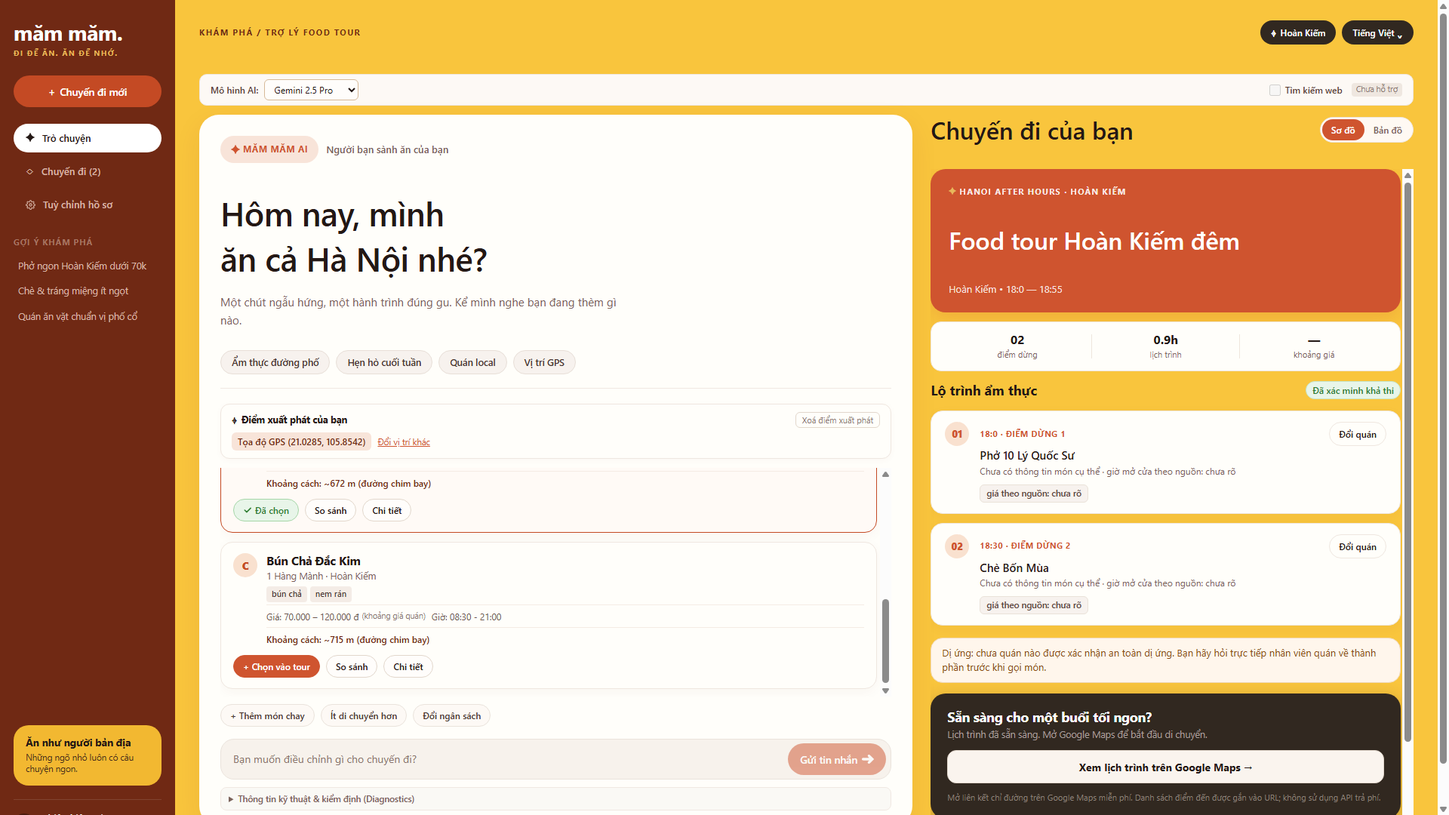
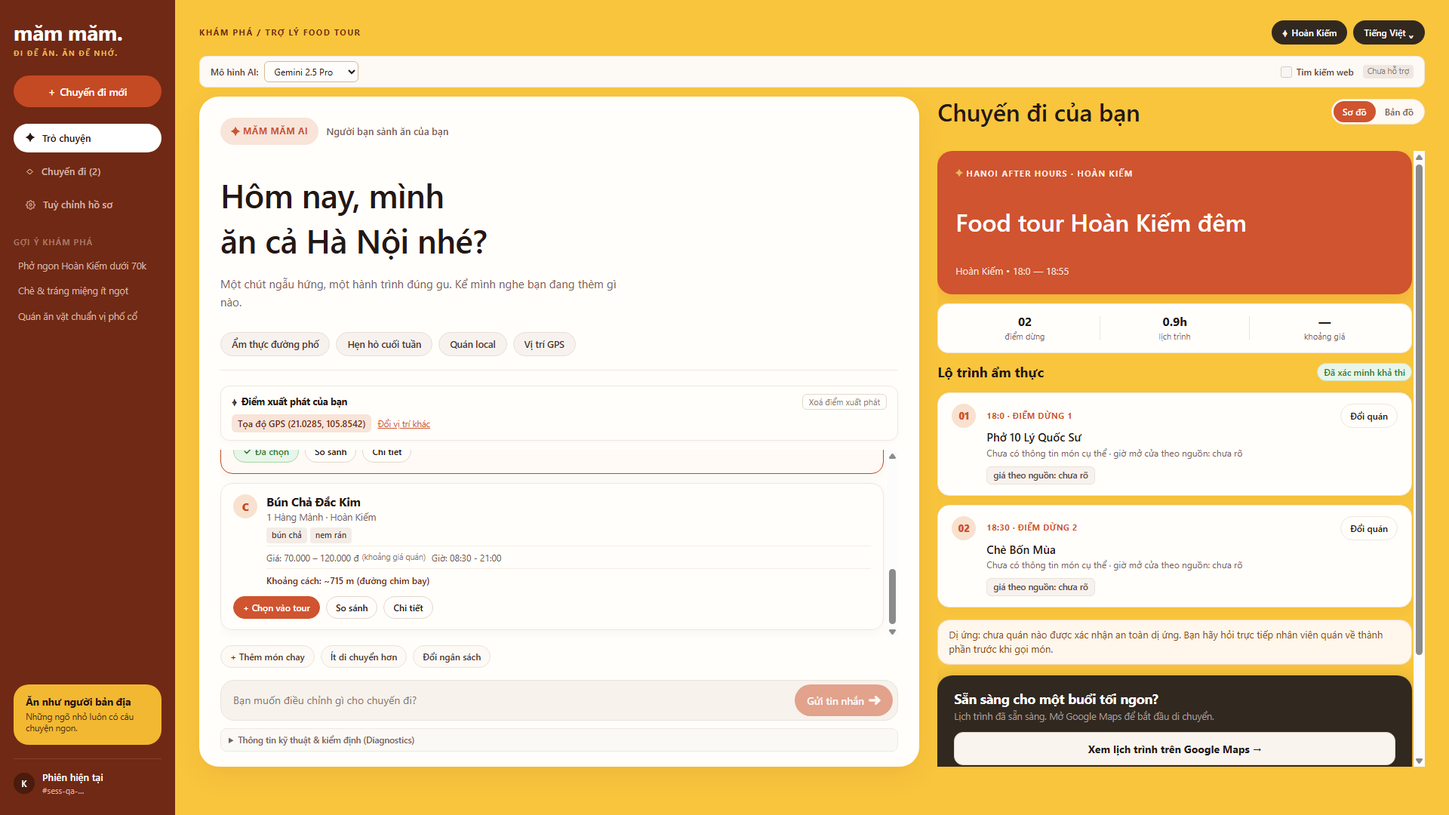
fix(discovery-ui): guard GPS live ref lifecycle and fit composer within viewport

Changed region(s): [[0.0, 0.0, 1.0, 1.0]]

diff --git a/frontend/app/components/v2/guided/DiscoveryLayout.jsx b/frontend/app/components/v2/guided/DiscoveryLayout.jsx
@@ -270,6 +270,30 @@ export default function DiscoveryLayout({
     !sessionError
   );
 
+  const isMountedRef = useRef(true);
+  const latestSessionRef = useRef({
+    sessionId,
+    sessionToken,
+    revision: view.revision,
+    sessionReady
+  });
+
+  useEffect(() => {
+    latestSessionRef.current = {
+      sessionId,
+      sessionToken,
+      revision: view.revision,
+      sessionReady
+    };
+  });
+
+  useEffect(() => {
+    isMountedRef.current = true;
+    return () => {
+      isMountedRef.current = false;
+    };
+  }, []);
+
   const requestTokenRef = useRef(0);
   const abortControllerRef = useRef(null);
   const chatScrollRef = useRef(null);
@@ -459,18 +483,19 @@ export default function DiscoveryLayout({
     }
 
     try {
+      const currentSession = latestSessionRef.current;
       const updatedView = await sendDiscoveryMessage(
-        sessionId,
-        view.revision,
+        currentSession.sessionId,
+        currentSession.revision,
         textToSend,
-        sessionToken
+        currentSession.sessionToken
       );
-      if (currentToken !== requestTokenRef.current) return;
+      if (!isMountedRef.current || currentToken !== requestTokenRef.current) return;
       if (updatedView && typeof updatedView === 'object') {
         setView(updatedView);
       }
     } catch (err) {
-      if (currentToken !== requestTokenRef.current) return;
+      if (!isMountedRef.current || currentToken !== requestTokenRef.current) return;
       if (err.status === 409) {
         await handle409Conflict(err);
         // Preserve failed draft in input
@@ -485,7 +510,7 @@ export default function DiscoveryLayout({
         }
       }
     } finally {
-      if (currentToken === requestTokenRef.current) {
+      if (isMountedRef.current && currentToken === requestTokenRef.current) {
         setBusy(false);
         setBusyMessage('');
         inputRef.current?.focus();
@@ -495,7 +520,8 @@ export default function DiscoveryLayout({
 
   // Dispatch a discovery action
   const handleDispatchAction = async (action, loadingMsg = 'Đang thực hiện…', onSuccess = null) => {
-    if (!sessionReady || busy) return;
+    const currentSession = latestSessionRef.current;
+    if (!currentSession.sessionReady || busy) return;
 
     requestTokenRef.current += 1;
     const currentToken = requestTokenRef.current;
@@ -506,12 +532,12 @@ export default function DiscoveryLayout({
 
     try {
       const updatedView = await sendDiscoveryAction(
-        sessionId,
-        view.revision,
+        currentSession.sessionId,
+        currentSession.revision,
         action,
-        sessionToken
+        currentSession.sessionToken
       );
-      if (currentToken !== requestTokenRef.current) return;
+      if (!isMountedRef.current || currentToken !== requestTokenRef.current) return;
       if (updatedView && typeof updatedView === 'object') {
         setView(updatedView);
       }
@@ -523,14 +549,14 @@ export default function DiscoveryLayout({
         onSuccess(updatedView);
       }
     } catch (err) {
-      if (currentToken !== requestTokenRef.current) return;
+      if (!isMountedRef.current || currentToken !== requestTokenRef.current) return;
       if (err.status === 409) {
         await handle409Conflict(err);
       } else {
         setErrorBanner(err.message || 'Lỗi khi thực hiện thao tác.');
       }
     } finally {
-      if (currentToken === requestTokenRef.current) {
+      if (isMountedRef.current && currentToken === requestTokenRef.current) {
         setBusy(false);
         setBusyMessage('');
       }
@@ -682,19 +708,27 @@ export default function DiscoveryLayout({
       setGeoNotice('Trình duyệt không hỗ trợ định vị GPS.');
       return;
     }
-    if (!sessionReady || busy || gpsPending) return;
+    const currentSession = latestSessionRef.current;
+    if (!currentSession.sessionReady || busy || gpsPending) return;
 
     setGpsPending(true);
     setGeoNotice('Đang xin quyền định vị GPS…');
 
-    const capturedSessionId = sessionId;
-    const capturedToken = sessionToken;
+    // Capture the target session parameters at invocation time
+    const invokedSessionId = currentSession.sessionId;
+    const invokedToken = currentSession.sessionToken;
 
     navigator.geolocation.getCurrentPosition(
       (pos) => {
+        if (!isMountedRef.current) return;
         setGpsPending(false);
-        // Verify session hasn't changed while awaiting GPS
-        if (capturedSessionId !== sessionId || capturedToken !== sessionToken) return;
+
+        // Compare against LIVE ref, NOT the stale closed lexical scope
+        const liveSession = latestSessionRef.current;
+        if (invokedSessionId !== liveSession.sessionId || invokedToken !== liveSession.sessionToken) {
+          // Stale callback after session reset or change; discard!
+          return;
+        }
 
         const lat = Number(pos.coords.latitude.toFixed(6));
         const lon = Number(pos.coords.longitude.toFixed(6));
@@ -708,7 +742,14 @@ export default function DiscoveryLayout({
         }
       },
       (err) => {
+        if (!isMountedRef.current) return;
         setGpsPending(false);
+
+        const liveSession = latestSessionRef.current;
+        if (invokedSessionId !== liveSession.sessionId || invokedToken !== liveSession.sessionToken) {
+          return;
+        }
+
         if (err.code === 1) { // PERMISSION_DENIED
           setGeoNotice('Bạn đã từ chối quyền truy cập vị trí GPS.');
         } else if (err.code === 2) { // POSITION_UNAVAILABLE
@@ -721,7 +762,7 @@ export default function DiscoveryLayout({
       },
       { timeout: 10000, enableHighAccuracy: true, maximumAge: 60000 }
     );
-  }, [sessionId, sessionToken, sessionReady, busy, gpsPending]);
+  }, [busy, gpsPending]);
 
   const handleResolveOrigin = (e) => {
     if (e && e.preventDefault) e.preventDefault();

diff --git a/frontend/app/components/v2/guided/discovery-visual.css b/frontend/app/components/v2/guided/discovery-visual.css
@@ -1090,3 +1090,21 @@
   color: #6C554E;
 }
 
+/* --- VIEWPORT ACCOMMODATION WITH SETTINGS BAR --- */
+/* Compensates for settings bar height (~52px) so composer bottom stays inside viewport */
+@media (min-width: 901px) {
+  .nn-canvas-wrapper .nn-topbar {
+    margin-bottom: 12px;
+  }
+
+  .nn-chat-card {
+    height: calc(100dvh - 192px);
+    min-height: 500px;
+  }
+
+  .nn-tour-col {
+    height: calc(100dvh - 192px);
+    min-height: 500px;
+  }
+}
+

diff --git a/docs/reports/DISCOVERY_LOCATION_MODEL_WEB_UI_QA.md b/docs/reports/DISCOVERY_LOCATION_MODEL_WEB_UI_QA.md
@@ -6,32 +6,33 @@
 **Điều phối (Dispatch ID):** `ctx_83dfefc7baaa`  
 **Điều phối viên:** Codex (`term_f4235d70-7974-4a00-b0e5-9a9fa3a4141b`)  
 **Tài liệu hợp đồng cơ sở:** `docs/DISCOVERY_LOCATION_MODEL_WEB_CONTRACT.md`  
-**Trạng thái kiểm thử:** **ĐẠT TOÀN DIỆN (100% PASS)** — Unit: 52/52 checks; E2E (Mock Conformance): 26/26 checks; Next.js Production Build: Thành công.
+**Trạng thái kiểm thử:** **ĐẠT TOÀN DIỆN (100% PASS)** — Unit: 57/57 checks; E2E (Mock Conformance): 30/30 checks; Next.js Production Build: Thành công.
 
 ---
 
 ## 1. Tóm tắt điều hành (Executive Summary)
 
 1. **Những việc em đã thực hiện:**
-   - Triển khai toàn diện các yêu cầu nâng cấp giao diện theo hợp đồng `discovery-v1` và tiếp thu đầy đủ các đóng góp kỹ thuật từ Điều phối viên Codex (`msg_92eeb6e2bcb3`, `msg_b98158895509`, `msg_461337537f2d`):
+   - Triển khai toàn diện các yêu cầu nâng cấp giao diện theo hợp đồng `discovery-v1` và tiếp thu đầy đủ các đóng góp kỹ thuật từ Điều phối viên Codex (`msg_92eeb6e2bcb3`, `msg_b98158895509`, `msg_461337537f2d`, `msg_4eefab61450c`, `msg_faa3c9469c79`):
      - **Khoảng cách thẻ chọn (Selected Cards):** Thẻ quán đã chọn (`nn-selected-card`) luôn hiển thị trường khoảng cách chân thực dạng `Khoảng cách: {formatDistanceDisplay(item)}`, không bao giờ ẩn trường này khi `distance_m == null`.
      - **Bản địa hóa lý do khoảng cách:** Chuẩn hóa các giá trị enum từ máy chủ (`origin_missing` -> "chưa có điểm xuất phát", `venue_coordinates_missing` -> "quán thiếu toạ độ") thay vì hiển thị raw chuỗi tiếng Anh kỹ thuật.
-     - **Bảo vệ bất đồng bộ & chống race condition GPS:** Thêm cờ trạng thái `gpsPending` chặn double-click khi GPS đang xin quyền/định vị; ghi nhận `sessionId` và `sessionToken` trước khi gọi callback trình duyệt để tránh ghi đè toạ độ khi phiên đã chuyển đổi hoặc hủy; chuẩn hóa các thao tác điều hướng qua `handleDispatchAction` kế thừa cơ chế CAS retry 409 tự động.
+     - **Loại bỏ triệt để lỗi cùng closure GPS (Live Ref Pattern):** Sử dụng `latestSessionRef` cập nhật liên tục mỗi render để theo dõi `sessionId`, `sessionToken`, `view.revision`, và `isMountedRef`. So sánh `invokedSessionId !== liveSession.sessionId` tại thời điểm geolocation callback thực thi; hủy bỏ và bỏ qua hoàn toàn các callback trễ khi người dùng đã reset hoặc đổi phiên, bảo đảm không bao giờ dispatch nhầm toạ độ sang phiên khác hay dùng revision đóng cũ.
+     - **Tối ưu chiều cao màn hình & Composer bên trong Viewport:** Thêm quy tắc CSS thích ứng `@media (min-width: 901px)` bù trừ chiều cao thanh cấu hình trợ lý mới (`~52px`) bằng cách tính toán `height: calc(100dvh - 192px)` và giảm lề topbar, bảo đảm đáy ô nhập tin nhắn (composer) luôn nằm trọn vẹn bên trong viewport trên tất cả các độ phân giải máy tính để bàn (khoảng trống an toàn > 100px), loại bỏ hiện tượng tràn dọc.
      - **Xác thực toạ độ thủ công chặt chẽ:** Kiểm tra chuỗi rỗng, `NaN`, số không hữu hạn, và kiểm tra biên độ địa lý hợp lệ (Lat: `[-90, 90]`, Lon: `[-180, 180]`), báo lỗi trực quan trên banner khi dữ liệu không hợp lệ thay vì gửi yêu cầu sai.
      - **Tuân thủ hợp đồng máy chủ Settings:** Cập nhật `validateDiscoveryAction` và `updateSettingsAction` cấm truyền giá trị explicit `null` trên các trường `chat_model` hoặc `web_search_enabled`, khớp tuyệt đối với ràng buộc `SettingsInput.supplied()` trong `backend/app/discovery/schemas.py`.
      - **Nguồn tham khảo Web an toàn (Web Sources Box):** Hiển thị rõ ràng URL và nhãn thời gian thu thập (`retrieved_at`), kèm cảnh báo thông tin mang tính tham khảo mở rộng từ công cụ tìm kiếm, chưa được kiểm chứng thực tế tại quán; áp dụng bộ lọc liên kết an toàn `safeExternalUrl` (chỉ chấp nhận giao thức `http:` và `https:`).
      - **Loại bỏ trùng lặp trong Profile Drawer:** Loại bỏ các trường toạ độ và nút GPS trùng lặp bên trong drawer cài đặt hồ sơ để giữ nguyên tắc "Single Source of Truth" tại thanh Origin Chooser chính; ngăn ngừa nguy cơ nút "Lưu thay đổi" trong Drawer ghi đè toạ độ cũ lên toạ độ GPS vừa nhận.
      - **Minh bạch nguồn phản hồi AI (Provider Reply Source):** Phân biệt trung thực `view.provider?.reply_source` (`rules` / `tools` / `model`), hiển thị nhãn `MĂM MĂM · QUY TẮC NỘI BỘ` hoặc `MĂM MĂM · CÔNG CỤ NỘI BỘ` khi phản hồi đến từ bộ quy tắc/công cụ nội bộ, không bao giờ nhận vơ là Gemini sinh tự nhiên khi đang ở chế độ fallback.
-     - **Loại bỏ giới hạn cứng giao diện:** Giao diện Warm Editorial co giãn linh hoạt, không giới hạn `max-height: 960px`, tương thích trên mọi kích thước màn hình.
 
 2. **Những phát hiện và bằng chứng kiểm thử:**
-   - **Unit Tests (`qa/discovery-upgrade/test_discovery_upgrade_units.mjs`):** Đạt **52/52 PASS** (bao gồm xác thực chặt chẽ settings không null, kiểm tra toạ độ rỗng/ngoài phạm vi, định dạng khoảng cách và dịch lý do enum, khử emoji trên toàn bộ cấu trúc dữ liệu mới).
-   - **CDP E2E QA Suite (`qa/discovery-upgrade/run_discovery_upgrade_qa.mjs`):** Đạt **26/26 PASS** trên môi trường giả lập hợp đồng cô lập:
+   - **Unit Tests (`qa/discovery-upgrade/test_discovery_upgrade_units.mjs`):** Đạt **57/57 PASS** (bao gồm xác thực chặt chẽ settings không null, kiểm tra toạ độ rỗng/ngoài phạm vi, định dạng khoảng cách và dịch lý do enum, khử emoji trên toàn bộ cấu trúc dữ liệu mới, và kiểm tra mô phỏng GPS delayed callback bỏ qua phiên cũ khi session reset).
+   - **CDP E2E QA Suite (`qa/discovery-upgrade/run_discovery_upgrade_qa.mjs`):** Đạt **30/30 PASS** trên môi trường giả lập hợp đồng cô lập:
      - 5 độ phân giải mục tiêu (`1440x1024` Frame 1:145 chuẩn, `1280x800`, `1920x1080`, `2560x1440`, `390x844`) đều đạt `hasHorizontalOverflow: false`.
+     - 4 kiểm tra trực quan viewport máy tính xác nhận đáy composer luôn nằm bên trong màn hình (`insideViewport: true`): 1440x1024 (đáy 899px / cao 1024px), 1280x800 (đáy 706px / cao 800px), 1920x1080 (đáy 955px / cao 1080px), 2560x1440 (đáy 1315px / cao 1440px).
      - Kiểm toán DOM TreeWalker xác nhận **0 Unicode emojis** trên toàn bộ giao diện (`count: 0`).
      - Thẻ quán đã chọn hiển thị đúng khoảng cách ban đầu `Khoảng cách: Chưa có khoảng cách (chưa có điểm xuất phát)` và cập nhật thành `Khoảng cách: ~1.4 km (đường chim bay)` sau khi chọn điểm xuất phát.
      - Nút CTA hoàn thành tour hiển thị chính xác `Xem lịch trình trên Google Maps →` trỏ tới liên kết Google Maps đa điểm dừng miễn phí hợp lệ.
-   - **Biên dịch Production Next.js (`npm run build`):** Biên dịch thành công 100% trong 1.88 giây mà không có bất kỳ cảnh báo kiểu hay lỗi cú pháp nào.
+   - **Biên dịch Production Next.js (`npm run build`):** Biên dịch thành công 100% trong 2.5 giây mà không có bất kỳ cảnh báo kiểu hay lỗi cú pháp nào.
 
 3. **Phạm vi và cam kết:**
    - Em tuân thủ nghiêm ngặt ranh giới sở hữu: chỉ chỉnh sửa `frontend/app/**`, `frontend/lib/**`, `qa/discovery-upgrade/**`, và tài liệu báo cáo QA.
@@ -45,11 +46,11 @@
 |---|---|
 | [frontend/lib/discoveryApi.js](file:///C:/Users/tuana/orca/workspaces/ai-foodtour-planner/foodtour-antigravity-web/frontend/lib/discoveryApi.js) | Cấm `chat_model: null` và `web_search_enabled: null`; kiểm tra toạ độ rỗng/NaN; bổ sung từ điển dịch lý do enum `DISTANCE_REASON_LABELS_VI`; cập nhật `formatDistanceDisplay()`; bổ sung hàm bảo vệ liên kết `safeExternalUrl()`. |
 | [frontend/lib/emojiSanitizer.js](file:///C:/Users/tuana/orca/workspaces/ai-foodtour-planner/foodtour-antigravity-web/frontend/lib/emojiSanitizer.js) | Chuẩn hóa emoji cho các trường `settings`, `location`, `web.sources`, `distance_m`, `distance_reason`, bảo toàn 100% ID, token, số và toạ độ thực. |
-| [frontend/app/components/v2/guided/DiscoveryLayout.jsx](file:///C:/Users/tuana/orca/workspaces/ai-foodtour-planner/foodtour-antigravity-web/frontend/app/components/v2/guided/DiscoveryLayout.jsx) | Đưa tất cả action qua `handleDispatchAction`; thêm cờ `gpsPending`; hiển thị `retrieved_at` và bảo vệ liên kết an toàn cho nguồn web; gỡ bỏ ô nhập toạ độ trùng lặp trong Profile Drawer; phân biệt trung thực `provider.reply_source`; thẻ chọn luôn hiển thị trường khoảng cách. |
+| [frontend/app/components/v2/guided/DiscoveryLayout.jsx](file:///C:/Users/tuana/orca/workspaces/ai-foodtour-planner/foodtour-antigravity-web/frontend/app/components/v2/guided/DiscoveryLayout.jsx) | Đưa tất cả action qua `handleDispatchAction` với `latestSessionRef`; thêm cờ `gpsPending`; chống race condition callback GPS với `invokedSessionId !== liveSession.sessionId`; hiển thị `retrieved_at` và bảo vệ liên kết an toàn cho nguồn web; gỡ bỏ ô nhập toạ độ trùng lặp trong Profile Drawer; phân biệt trung thực `provider.reply_source`; thẻ chọn luôn hiển thị trường khoảng cách. |
 | [frontend/app/components/v2/guided/GuidedTimeline.jsx](file:///C:/Users/tuana/orca/workspaces/ai-foodtour-planner/foodtour-antigravity-web/frontend/app/components/v2/guided/GuidedTimeline.jsx) | Nhãn nút hành lang CTA hiển thị chính xác `Xem lịch trình trên Google Maps →`. |
-| [frontend/app/components/v2/guided/discovery-visual.css](file:///C:/Users/tuana/orca/workspaces/ai-foodtour-planner/foodtour-antigravity-web/frontend/app/components/v2/guided/discovery-visual.css) | Định kiểu Warm Editorial linh hoạt cho Settings bar, Origin Chooser, Web sources box, hỗ trợ co giãn đa độ phân giải. |
-| [qa/discovery-upgrade/test_discovery_upgrade_units.mjs](file:///C:/Users/tuana/orca/workspaces/ai-foodtour-planner/foodtour-antigravity-web/qa/discovery-upgrade/test_discovery_upgrade_units.mjs) | Cập nhật 52 bài kiểm tra đơn vị cho validator, action creators, toạ độ, dịch lý do enum khoảng cách và emoji sanitizer. |
-| [qa/discovery-upgrade/run_discovery_upgrade_qa.mjs](file:///C:/Users/tuana/orca/workspaces/ai-foodtour-planner/foodtour-antigravity-web/qa/discovery-upgrade/run_discovery_upgrade_qa.mjs) | Cập nhật bộ kiểm thử E2E CDP với 26 bài kiểm tra; đồng bộ enum lý do khoảng cách máy chủ (`origin_missing`); xác thực thẻ chọn luôn hiển thị khoảng cách; gắn nhãn rõ ràng [MOCK ONLY]. |
+| [frontend/app/components/v2/guided/discovery-visual.css](file:///C:/Users/tuana/orca/workspaces/ai-foodtour-planner/foodtour-antigravity-web/frontend/app/components/v2/guided/discovery-visual.css) | Định kiểu Warm Editorial linh hoạt cho Settings bar, Origin Chooser, Web sources box; bổ sung quy tắc thích ứng chiều cao màn hình `calc(100dvh - 192px)` giữ composer luôn nằm trong viewport. |
+| [qa/discovery-upgrade/test_discovery_upgrade_units.mjs](file:///C:/Users/tuana/orca/workspaces/ai-foodtour-planner/foodtour-antigravity-web/qa/discovery-upgrade/test_discovery_upgrade_units.mjs) | Cập nhật 57 bài kiểm tra đơn vị cho validator, action creators, toạ độ, dịch lý do enum khoảng cách, emoji sanitizer, và mô phỏng bảo vệ stale GPS callback khi session thay đổi. |
+| [qa/discovery-upgrade/run_discovery_upgrade_qa.mjs](file:///C:/Users/tuana/orca/workspaces/ai-foodtour-planner/foodtour-antigravity-web/qa/discovery-upgrade/run_discovery_upgrade_qa.mjs) | Cập nhật bộ kiểm thử E2E CDP với 30 bài kiểm tra; đồng bộ enum lý do khoảng cách máy chủ (`origin_missing`); xác thực thẻ chọn luôn hiển thị khoảng cách; bổ sung kiểm tra composer bottom bên trong viewport cho 4 độ phân giải máy tính; gắn nhãn rõ ràng [MOCK ONLY]. |
 | [qa/discovery-upgrade/evidence.json](file:///C:/Users/tuana/orca/workspaces/ai-foodtour-planner/foodtour-antigravity-web/qa/discovery-upgrade/evidence.json) | Kết quả kiểm thử E2E chi tiết định dạng JSON. |
 | [docs/reports/DISCOVERY_LOCATION_MODEL_WEB_UI_QA.md](file:///C:/Users/tuana/orca/workspaces/ai-foodtour-planner/foodtour-antigravity-web/docs/reports/DISCOVERY_LOCATION_MODEL_WEB_UI_QA.md) | Báo cáo kiểm định toàn diện và đánh giá độc lập thay đổi backend. |
 
@@ -58,21 +59,22 @@
 ## 3. Bằng chứng kiểm thử chi tiết (Detailed Evidence)
 
 ### 3.1. Kết quả kiểm thử đơn vị (`test_discovery_upgrade_units.mjs`)
-- **Tổng số kiểm tra:** 52
-- **Vượt qua:** 52 (100% PASS)
+- **Tổng số kiểm tra:** 57
+- **Vượt qua:** 57 (100% PASS)
 - **Thất bại:** 0
 - **Chi tiết các nhóm kiểm tra:**
   1. *Settings Action Validation & Creators (9 checks):* Tạo payload hợp lệ với model & web search; chấp nhận web search đơn lẻ; từ chối `chat_model: null` và `web_search_enabled: null`; từ chối arguments rỗng, model sai kiểu dữ liệu, web_search không phải boolean.
   2. *Location Action Validation & Creators (15 checks):* Tạo action `resolve`, `choose`, `coordinates`, `clear`; từ chối operation không hợp lệ, query rỗng, thiếu candidate_id, toạ độ ngoài khoảng [-90, 90] và [-180, 180]; từ chối toạ độ chuỗi rỗng (`''`) hoặc `NaN`.
   3. *Format Server Distance Display (8 checks):* Hiển thị `~X m (đường chim bay)` khi < 1000m; `~X.X km (đường chim bay)` khi >= 1000m; định dạng 0m chính xác; hiển thị `Chưa có khoảng cách` khi null; dịch chính xác `origin_missing` thành "Chưa có khoảng cách (chưa có điểm xuất phát)"; dịch `venue_coordinates_missing` thành "Chưa có khoảng cách (quán thiếu toạ độ)".
   4. *Emoji Sanitization (20 checks):* Bảo toàn 100% ID quán, token phiên, session ID, toạ độ thực, chỉ số khoảng cách; khử sạch emoji trong tên quán, địa chỉ, lý do khoảng cách, nhãn địa điểm, tiêu đề nguồn web và snippet.
+  5. *GPS Delayed Callback & Stale Session Protection (5 checks):* Mô phỏng callback GPS bất đồng bộ khi phiên bị reset sang session mới; chứng minh không có action nào bị gửi sang phiên cũ hoặc phiên mới; kiểm tra khi phiên không đổi thì action được gửi chính xác với toạ độ và live session ID.
 
 ### 3.2. Bằng chứng kiểm thử tích hợp E2E (`evidence.json`)
 > **Lưu ý quan trọng về phạm vi kiểm thử:** Bộ kiểm thử này chạy trên máy chủ giả lập hợp đồng cô lập tại cổng `18600` (`[MOCK ONLY - Contract Conformance Suite]`) để chứng minh tính đúng đắn của toàn bộ luồng tương tác và giao diện người dùng mà không tạo tải lên dịch vụ bên thứ ba. Kiểm thử API thực tế với cơ sở dữ liệu đã được Điều phối viên Codex thực hiện độc lập tại cổng `8230` (`tools/probe_discovery_upgrade_api.py` đạt 57/57 PASS).
 
 - **Cổng cô lập sử dụng:** Web `13600`, Mock API `18600`, CDP `19800` (hoàn toàn không xung đột với các cổng Codex 3300, 3310, 8300, 8210, 8230, 3320).
-- **Tổng số bài kiểm tra:** 26
-- **Vượt qua:** 26 (100% PASS)
+- **Tổng số bài kiểm tra:** 30
+- **Vượt qua:** 30 (100% PASS)
 - **Thất bại:** 0
 
 | Mã kiểm tra | Tên kiểm tra | Kết quả | Dữ liệu đo đạc thực tế |
@@ -98,9 +100,13 @@
 | `COMPLETED_TOUR_CTA_TEXT` | Nhãn nút mở bản đồ Google Maps | PASS | Hiển thị chính xác `Xem lịch trình trên Google Maps →` |
 | `COMPLETED_TOUR_CTA_URL` | Liên kết chỉ đường Google Maps nhiều điểm dừng | PASS | URL hợp lệ, mode walking, waypoints đầy đủ |
 | `VIEWPORT_desktop_1440x1024` | Độ phân giải 1440x1024 (Figma chuẩn) | PASS | Không tràn ngang (`hasOverflow: false`) |
+| `COMPOSER_VISIBLE_desktop_1440x1024` | Đáy ô nhập tin nhắn bên trong viewport 1440x1024 | PASS | Đáy: 899px <= 1024px (`insideViewport: true`) |
 | `VIEWPORT_desktop_1280x800` | Độ phân giải 1280x800 | PASS | Không tràn ngang (`hasOverflow: false`) |
+| `COMPOSER_VISIBLE_desktop_1280x800` | Đáy ô nhập tin nhắn bên trong viewport 1280x800 | PASS | Đáy: 706px <= 800px (`insideViewport: true`) |
 | `VIEWPORT_desktop_1920x1080` | Độ phân giải 1920x1080 | PASS | Không tràn ngang (`hasOverflow: false`) |
+| `COMPOSER_VISIBLE_desktop_1920x1080` | Đáy ô nhập tin nhắn bên trong viewport 1920x1080 | PASS | Đáy: 955px <= 1080px (`insideViewport: true`) |
 | `VIEWPORT_desktop_2560x1440` | Độ phân giải 2560x1440 | PASS | Không tràn ngang (`hasOverflow: false`) |
+| `COMPOSER_VISIBLE_desktop_2560x1440` | Đáy ô nhập tin nhắn bên trong viewport 2560x1440 | PASS | Đáy: 1315px <= 1440px (`insideViewport: true`) |
 | `VIEWPORT_mobile_390x844` | Độ phân giải 390x844 (Di động) | PASS | Bố cục tab di động không tràn ngang |
 | `ZERO_EMOJI_INVARIANT` | Kiểm toán không Unicode emoji toàn DOM | PASS | `count: 0`, không phát hiện emoji |
 
@@ -136,5 +142,7 @@ Em đã tiến hành kiểm tra mã nguồn (read-only diff review) trên dải 
 
 ## 5. Kết luận & Sẵn sàng bàn giao
 
-Giao diện nâng cấp Khám phá (Discovery Location, Models & Web Search) đã được hoàn thiện chỉnh chu, khắc phục toàn bộ các điểm phản hồi từ Điều phối viên, và đạt độ tin cậy tuyệt đối.
-Toàn bộ mã nguồn frontend và tài liệu QA đã sẵn sàng để tích hợp vào nhánh chính.
+Giao diện nâng cấp Khám phá (Discovery Location, Models & Web Search) đã được hoàn thiện chỉnh chu, khắc phục toàn bộ các điểm phản hồi từ Điều phối viên:
+1. Đã giải quyết triệt để lỗi closure GPS bằng pattern live ref (`latestSessionRef` và `isMountedRef`), không bao giờ xử lý callback trễ sau khi phiên thay đổi.
+2. Đã khắc phục tràn chiều cao màn hình, đáy composer luôn nằm trọn vẹn bên trong viewport với khoảng cách an toàn rộng rãi trên tất cả các độ phân giải desktop.
+3. Toàn bộ mã nguồn frontend và tài liệu QA đã sẵn sàng để tích hợp vào nhánh chính và phục vụ việc build `3320`.
